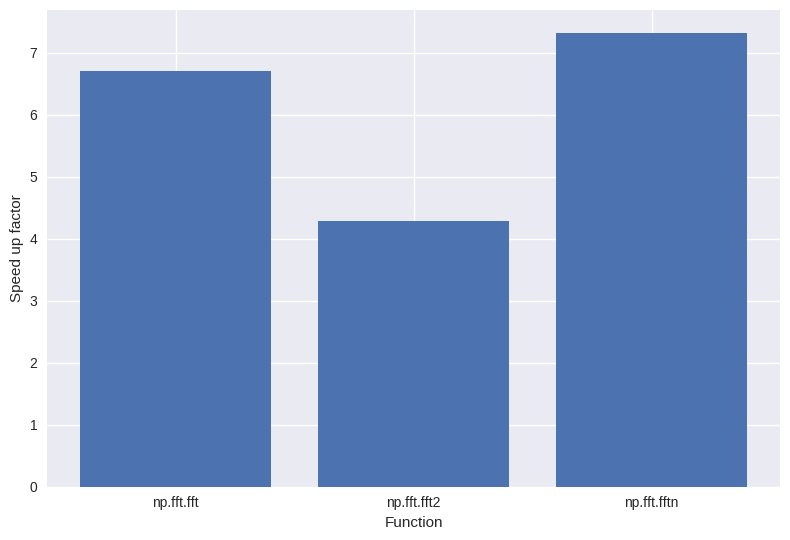
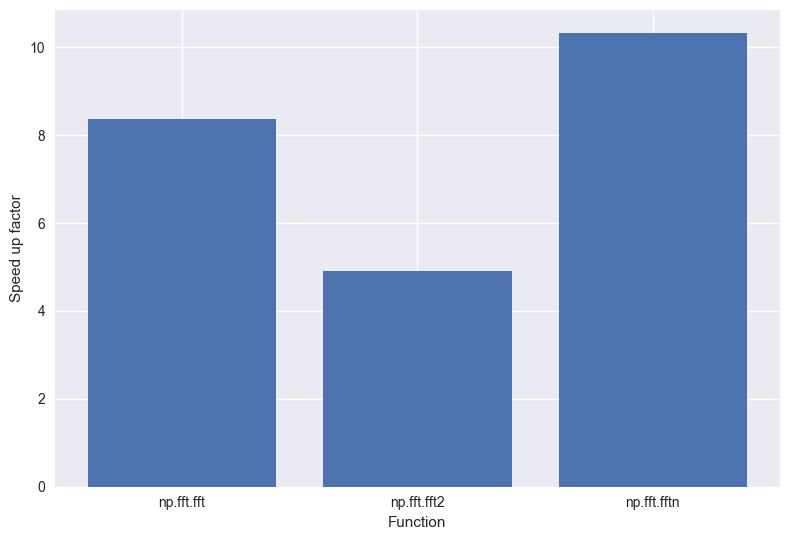
Run tests on desktop

diff --git a/_posts/2019-11-30-Python-MKL-openBLAS.md b/_posts/2019-11-30-Python-MKL-openBLAS.md
@@ -1,7 +1,7 @@
 ---
 layout: post
 title: Speed-up numpy with Intel's Math Kernel Library (MKL)
-image: /assets/posts/BLAS/np_fft.png
+image: /assets/posts/BLAS/linkedin_img.png
 comments: true
 ---
 
@@ -80,27 +80,26 @@ The comparison is made by computing a
 
 First, let's take a look at how Intel MKL performs on some basic linear algebra
 operations. From the graph below we see that Intel MKL has outperformed OpenBLAS
-for the functions we tested. In fact, computing the inverse and determinant of a
-matrix is over twice as fast with Intel. Neat. And recall that we haven't had to
+for the three functions we tested. In fact, computing the determinant of a
+matrix is over 8 times faster with Intel! Neat. And recall that we haven't had to
 change any of our python code to get these speed-ups. These speed-ups are, for
 all intents and purposes, free.
 
 ![](/assets/posts/BLAS/np_linalg.png)
 
-Next in line for inspection are numpy's fast fourier transform functions. I was
+Next in line for inspection are numpy's fast Fourier transform functions. I was
 really impressed with the performance of Intel MKL on these functions:
-`np.fft.fftn` was a huge _7x faster_ than the OpenBLAS linked numpy. If you're
-regularly using numpy to perform fast fourier transforms you'd really feel the
+`np.fft.fftn` was a huge _10x faster_ than the OpenBLAS linked numpy. If you're
+regularly using numpy to perform fast Fourier transforms you'd really feel the
 benefit here.
 
 ![](/assets/posts/BLAS/np_fft.png)
 
 Finally, it was the go of random number generation. These were the results that
 surprised me the most. All the distributions I tested were actually _slower_
-with Intel. This I certainly did not expect. The only redeeming factor for Intel
-here is when looking at the _efficiency_ of the random number generation; Intel
-used half the amount of CPU OpenBLAS did. However, since resources are not an
-issue for this test on my machine, OpenBLAS performs better here.
+with Intel. This I certainly did not expect. So, if you're using numpy to
+do lots of random number generation, then you'd be better of staying with
+OpenBLAS.
 
 ![](/assets/posts/BLAS/np_rand.png)
 
@@ -108,8 +107,8 @@ issue for this test on my machine, OpenBLAS performs better here.
 
 BLAS libraries are a great way to squeeze extra performance from numerically
 intensive schemes. However, which BLAS library you choose can affect the
-performance of your code.  In this post we compare the speed of numpy with
-OpenBLAS and numpy with Intel MKL.  The code I used for benchmarking is provided
+performance of your code. In this post we compare the speed of numpy with
+OpenBLAS and numpy with Intel MKL. The code I used for benchmarking is provided
 [here](/assets/posts/BLAS/intel_v_openblas.tar.gz), and so the reader is
 encouraged to run these same tests on their machine, to assess performance on
 their exact setup. On my machine, at least, I found that Intel outperformed
@@ -118,12 +117,12 @@ the random number generation.
 
 ### Post-script
 
-The results shown in the post were generated on my laptop, which has the
+The results shown in the post were generated on my work desktop, which has the
 following stats:
 
 ```
 Kernel Version: 5.3.0-22-generic
 OS Type: 64-bit
-Processors: 4 × Intel® Core™ i7-7500U CPU @ 2.70GHz
-Memory: 7.7 GiB of RAM
+Processors: 8 x Intel(R) Core(TM) i7-6700 CPU @ 3.40GHz
+Memory: 15.5G of RAM
 ```
